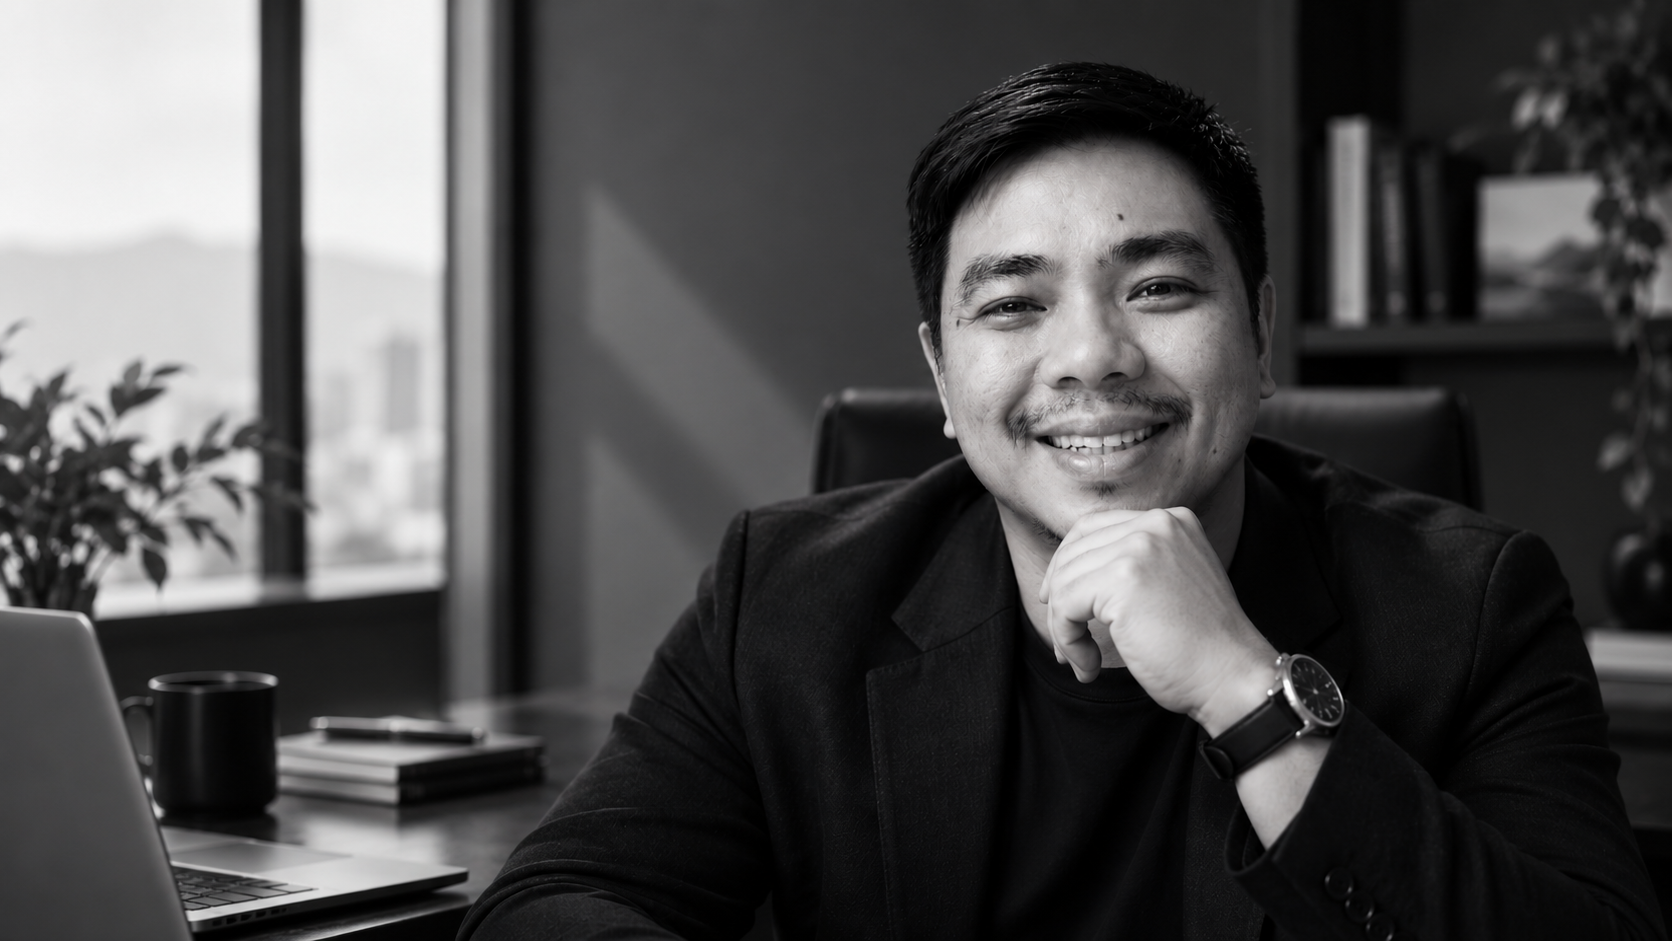
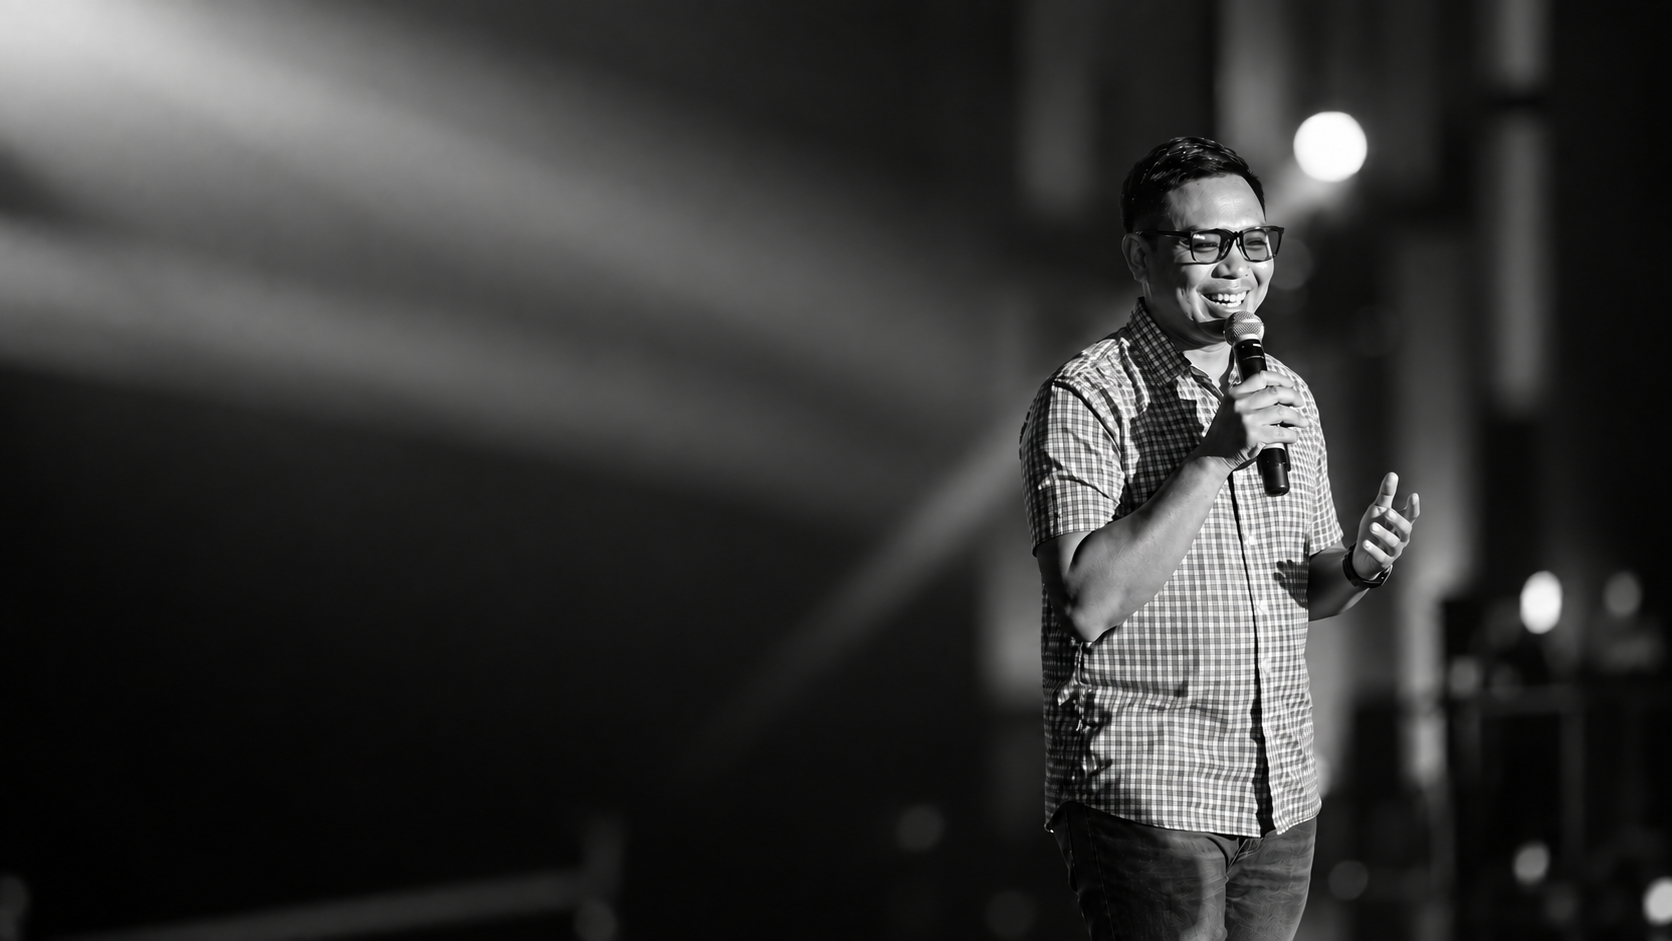
Refine ARETE hero image and message

diff --git a/src/app/page.tsx b/src/app/page.tsx
@@ -25,15 +25,15 @@ export default function Home() {
       <section className="hero" id="top">
         <div className="hero-grid" aria-hidden="true" />
         <div className="hero-stage">
-          <Image className="hero-image" src="/brand/luis-yu-hero.png" alt="Luis Yu seated at a desk in an office" fill sizes="100vw" priority />
+          <Image className="hero-image" src="/brand/luis-yu-hero.png" alt="Luis Yu speaking onstage" fill sizes="100vw" priority />
           <div className="hero-copy">
             <p className="eyebrow light">Leadership · Service · Strategy</p>
             <h1>
-              <span className="hero-line"><small>Build better</small><strong>leaders.</strong></span>
-              <span className="hero-line"><small>Create stronger</small><strong>teams.</strong></span>
-              <span className="hero-line"><small>Grow better</small><strong>businesses.</strong></span>
+              <span className="hero-line"><small>Lead</small><strong>better.</strong></span>
+              <span className="hero-line"><small>Build</small><strong>stronger.</strong></span>
+              <span className="hero-line"><small>Grow</small><strong>further.</strong></span>
             </h1>
-            <p className="hero-intro">Practical leadership development, customer experience, and business strategy for people and organizations ready to move forward.</p>
+            <p className="hero-intro">Leadership and business consulting for people ready to move forward.</p>
             <div className="button-row"><a className="button button-primary" href="#contact">Work with ARETE <span>↗</span></a><a className="button button-quiet" href="#speaking">Book Luis to speak <span>↗</span></a></div>
           </div>
           <div className="portrait-tag"><span>Founder &amp; principal consultant</span><strong>Luis Yu</strong></div>
